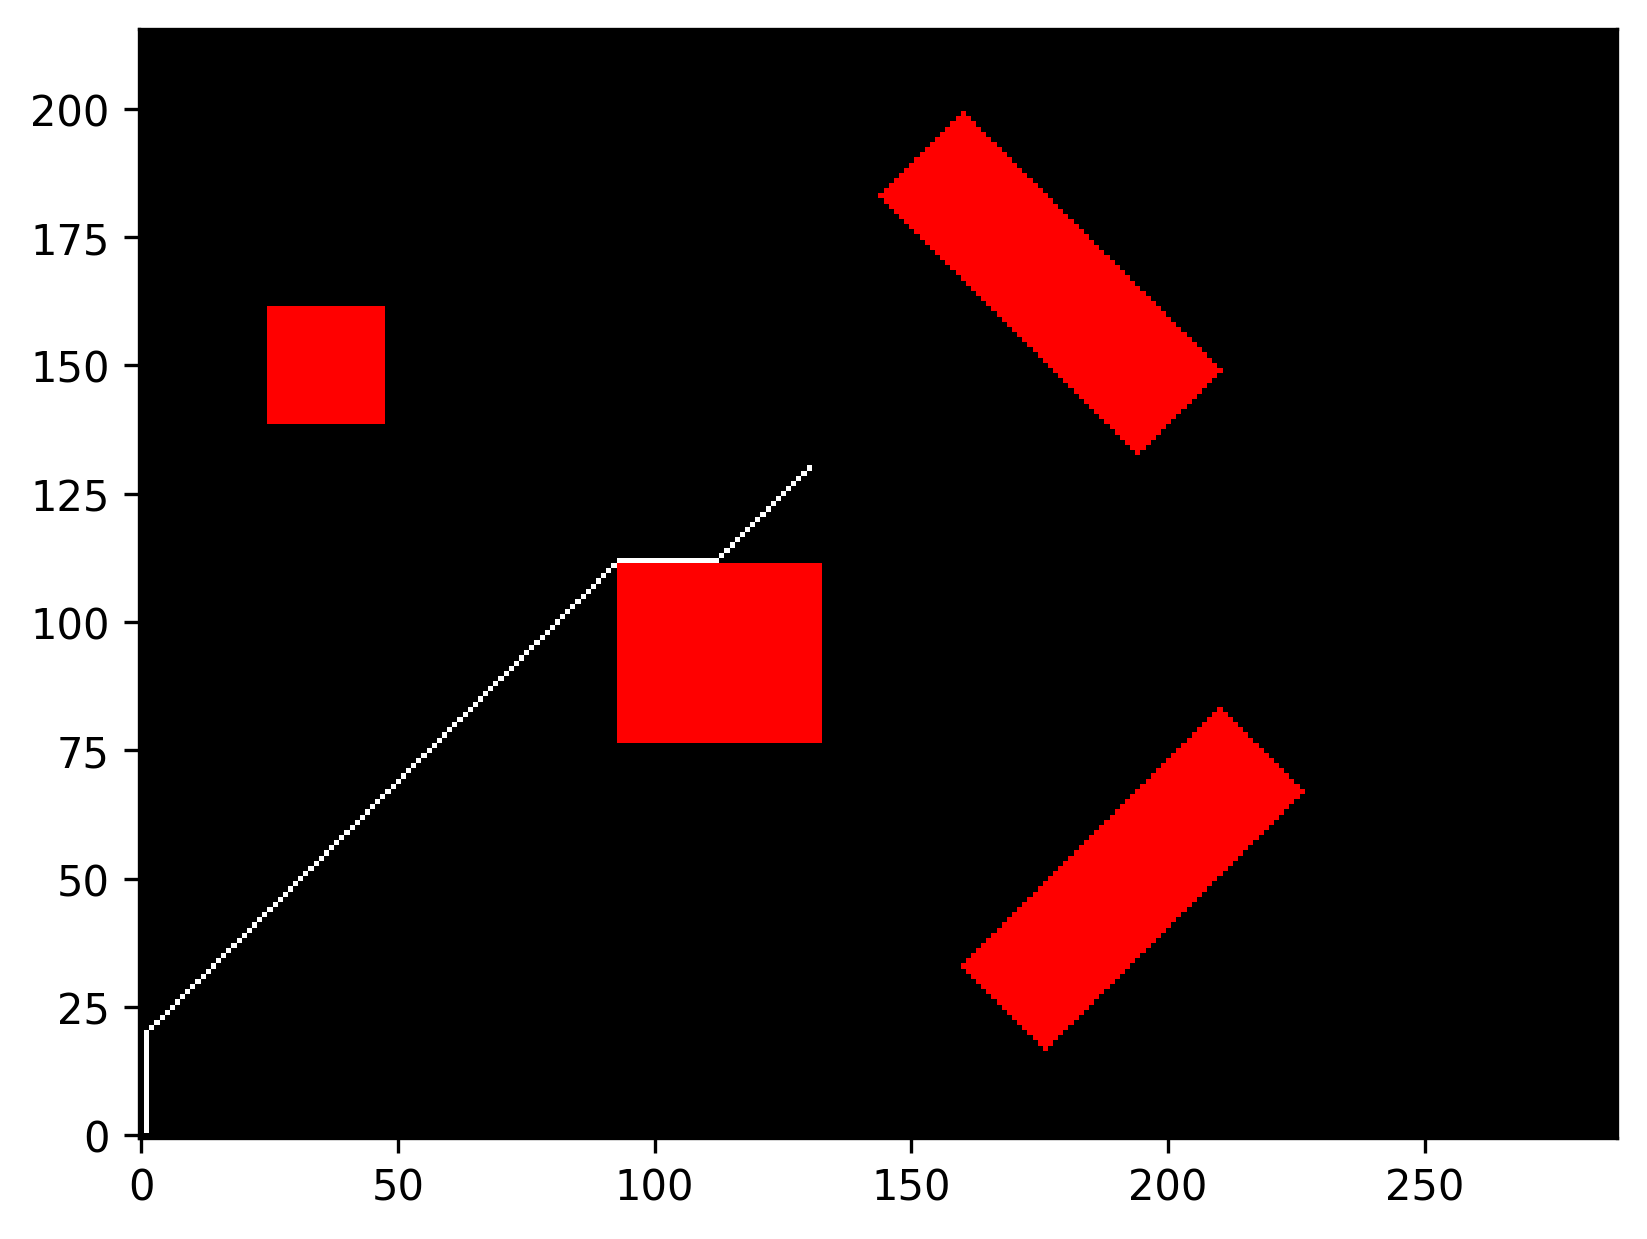
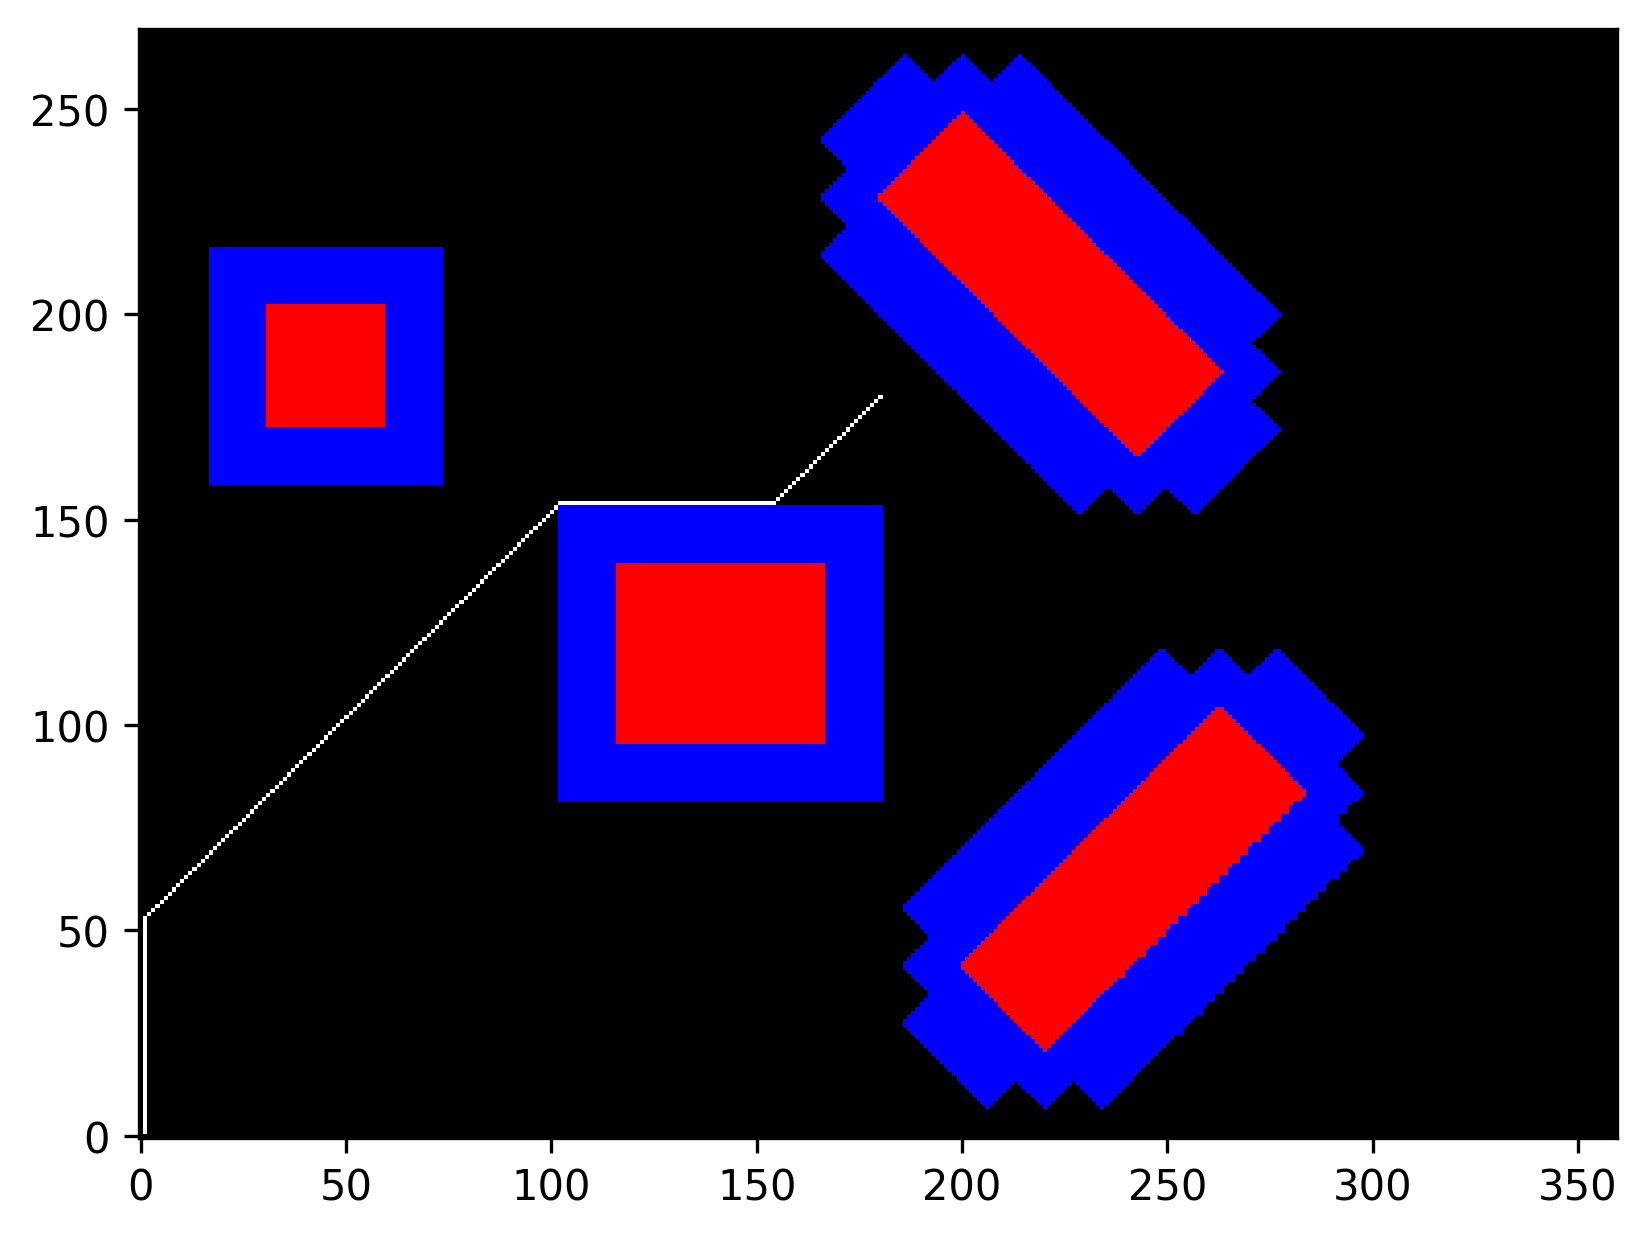
fixed buffer logic

diff --git a/Lab5/construct_map.py b/Lab5/construct_map.py
@@ -9,6 +9,7 @@ Author:         Joshua Samulak (jsamulak@andrew.cmu.edu)
 import math
 import numpy
 import matplotlib.pyplot as plt
+import time
 
 
 
@@ -217,18 +218,33 @@ def construct_map(isEasy, resolution):
 # that for some reason start with y values, then x values (blame plt, not me)
 
 # Example plt code using img result from construct_map:
+startTime = time.time()
 isEasy = False
-# Don't have less than 1 resolution...
-# RESOLUTION is the number of points you want per inch
-# (anything larger than 20 takes a while)
-resolution = 4
+resolution = 5
 img, obstaclesSet = construct_map(isEasy, resolution)
 
 
+#MAKES BUFFER
+bufferSize = 3 #this is the closest (in inches) that the robot will get to the obstacles
+#if it's running too close to the obstalces INCREASE THIS VALUE
+bufferSet = set()
+for x,y in obstaclesSet: 
+    for i in range(bufferSize * resolution):
+        for dr, dc in [(1,0),(0,1),(-1,0),(0,-1),(1,1),(-1,1),(-1,-1),(1,-1)]:
+            newX, newY = x + dr*i, y + dc*i
+            if (newX, newY) not in obstaclesSet and (newX, newY) not in bufferSet:
+                bufferSet.add((newX,newY)) #extend the obstacle
+                img[newX][newY] = [0,0,255] #color the buffer blue
+
+for x,y in bufferSet:
+    obstaclesSet.add((x,y))
+
+
+
 start = (1,1) #input these on demo day
-goal = (130,130)
+goal = (180,180)
 if goal in obstaclesSet:
-    print('CANNOT')
+    print('Goal is in an obstacle. Aborting execution')
 else:
     path = wavefront(resolution,start,goal,obstaclesSet)
     img = drawPath(path,img)
@@ -238,4 +254,6 @@ else:
 
     plt.savefig("map.png", dpi=300, bbox_inches="tight")
     print("saved map")
+    elapsedTime = time.time() - startTime
+    print(f"ran in {elapsedTime:.1f} seconds")
  

diff --git a/Lab5/path.py b/Lab5/path.py
@@ -20,7 +20,7 @@ def wavefront(res,start,goal,obstaclesSet):
     seen = set()
     distances = [[0] * mapWidth for _ in range(mapHeight)]
     for x,y in obstaclesSet:
-        distances[x][y] = 1000
+        distances[x][y] = 300
 
     L = list()
     q = deque(L)
